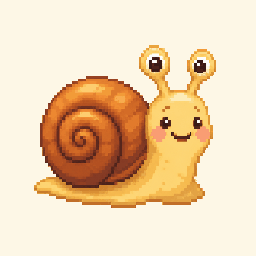
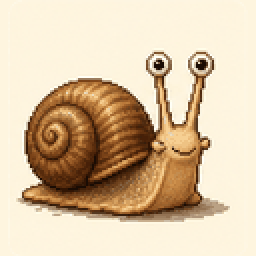
feat: update alt text for Romanian images and replace assets in Batch 40 corrective audit

diff --git a/docs/app-development-program/features/romanian-content-expansion/corrective-image-audit-batch-40.md b/docs/app-development-program/features/romanian-content-expansion/corrective-image-audit-batch-40.md
@@ -218,6 +218,63 @@ Local ignored review artifacts may include:
 - `assets/image-sources/ro/batch-40/brand-comparison-final.png`
 - `assets/image-sources/ro/batch-40/generated-96/*.png`
 
+## Next Corrective Scope: G-M Human Flags
+
+The next human-flagged list covers:
+
+| Word ID | Word | Current image path | Human issue | Current image audit | Decision | Regeneration direction |
+| --- | --- | --- | --- | --- | --- | --- |
+| `ro-g-gem` | `gem` | `/images/ro/g/ro-g-gem.webp` | Plain and bad; needs more detail and dimensionality. | Current jar reads as jam but is flat, sparse, and below the accepted food-object polish level. | Generate review candidate. | Detailed glass jar or small open jar of red berry jam, glossy jam surface, believable glass volume, warm full square background. |
+| `ro-g-garaj` | `garaj` | `/images/ro/g/ro-g-garaj.webp` | Needs to be more 3D, detailed, and specific; could be a boxy garage or near a house. | Current garage is simple and flat, with weak dimensional detail. | Generate review candidate. | Boxy small garage with clear segmented garage door, slight three-quarter view, a hint of house wall/driveway context if useful, full square background. |
+| `ro-g-gemeni` | `gemeni` | `/images/ro/g/ro-g-gemeni.webp` | Should be two identical boys. | Current image shows two children but not clearly identical twins. | Generate review candidate. | Two identical friendly boys side by side, same hair/clothes/proportions, child-safe expression, full square background. |
+| `ro-g-ger` | `ger` | `/images/ro/g/ro-g-ger.webp` | Too boxy/geometrical; needs more detail and 3D. | Current thermometer/snowflake symbol is geometric and too icon-like. | Generate review candidate. | Readable freezing-cold scene/object, such as frosty window/ice crystals with a small thermometer or icy branch, dimensional frost texture, cold full square background. |
+| `ro-g-ghereta` | `gheretă` | `/images/ro/g/ro-g-ghereta.webp` | Needs to be more specific, more detailed, more 3D, in style, and no shadow. | Current booth is readable but flat and too simple. | Generate review candidate. | Small kiosk/guard booth/ticket booth with window and door, simple 3D volume, no text, no cast/contact shadow, full square background. |
+| `ro-g-gheruta` | `gheruță` | `/images/ro/g/ro-g-gheruta.webp` | Same style/detail issue as `gheretă`; no shadow. | Current paw/claw is symbolic, flat, and on a cut/transparent-looking background. | Generate review candidate. | Small animal paw with visible little claws, rounded friendly shape, dimensional fur/pad detail, no scary talons, no shadow, full square background. |
+| `ro-i-insula` | `insulă` | `/images/ro/i/ro-i-insula.webp` | Needs more detail and 3D in the current standard. | Current island is too simple and geometric. | Generate review candidate. | Small sandy island with water around it and a palm/tree, gentle three-quarter/top-down volume, full square background. |
+| `ro-i-iaz` | `iaz` | `/images/ro/i/ro-i-iaz.webp` | Needs more detail and 3D. | Current pond is closer, but still too flat and sparse. | Generate review candidate. | Small contained pond with reeds, stones, lily pad, shallow-water feel, distinct from a large lake, full square background. |
+| `ro-l-lac` | `lac` | `/images/ro/l/ro-l-lac.webp` | Current image feels more like `iaz`; should be a bigger lake landscape. | Current lake is small and pond-like. | Generate review candidate. | Broader lake landscape with a larger water body, shoreline, trees or distant hills, still simple enough for thumbnail, full square background. |
+| `ro-m-melc` | `melc` | `/images/ro/m/ro-m-melc.webp` | Has two sets of eyes; snail eyes should be on eyestalks, not on the face. | Current snail is otherwise readable, but extra face eyes are biologically confusing. | Generate review candidate. | Friendly snail with exactly two eyes at the ends of upper eyestalks, no extra face eyes, rounded shell/body, full square background. |
+| `ro-m-musetel` | `mușețel` | `/images/ro/m/ro-m-musetel.webp` | Too boxy, geometrical, plain, and bad. | Current flower is stiff and icon-like. | Generate review candidate. | Small cluster of chamomile flowers with white petals and yellow centers, natural stems/leaves, soft dimensional pixel-art texture, full square background. |
+| `ro-m-martisor` | `mărțișor` | `/images/ro/m/ro-m-martisor.webp` | Too boxy/geometrical/plain; should be more Romanian-like. | Current heart charm has a red-white cord but does not clearly capture the Romanian traditional object. | Generate review candidate. | Romanian mărțișor with red-white twisted cord, tassels or bow, and a small spring/luck charm such as a flower, horseshoe, or clover; no text. Sources: Wikipedia overview of the Romanian/Moldovan spring tradition and red-white string (https://en.wikipedia.org/wiki/M%C4%83r%C8%9Bi%C8%99or), DEX definition of the mărțișor object/custom (https://dexonline.ro/definitie/m%C4%83r%C8%9Bi%C8%99or). |
+| `ro-m-mazare` | `mazăre` | `/images/ro/m/ro-m-mazare.webp` | Too boxy, geometrical, plain, and bad. | Current pea pod is flat and angular. | Generate review candidate. | Rounded green pea pod partly open with visible peas, organic curves, soft volume, full square background. |
+
+Contact-sheet plan: generate one unlabeled 13-cell candidate sheet in the exact table order above, with full square backgrounds inside every cell, then stop for human review before cropping, optimization, JSON edits, or production replacement.
+
+Contact-sheet outcome: generated one unlabeled 13-cell candidate sheet in the exact order above, stopped for human review, and the human accepted all cells.
+
+Implemented G-M corrective changes:
+
+| Word ID | Public path | Size | Dimensions | Result |
+| --- | --- | ---: | --- | --- |
+| `ro-g-gem` | `/images/ro/g/ro-g-gem.webp` | 11158 B | 256 x 256 | Accepted, AI contact-sheet replacement |
+| `ro-g-garaj` | `/images/ro/g/ro-g-garaj.webp` | 8830 B | 256 x 256 | Accepted, AI contact-sheet replacement |
+| `ro-g-gemeni` | `/images/ro/g/ro-g-gemeni.webp` | 10846 B | 256 x 256 | Accepted, AI contact-sheet replacement |
+| `ro-g-ger` | `/images/ro/g/ro-g-ger.webp` | 12038 B | 256 x 256 | Accepted, AI contact-sheet replacement |
+| `ro-g-ghereta` | `/images/ro/g/ro-g-ghereta.webp` | 10202 B | 256 x 256 | Accepted, AI contact-sheet replacement |
+| `ro-g-gheruta` | `/images/ro/g/ro-g-gheruta.webp` | 11544 B | 256 x 256 | Accepted, AI contact-sheet replacement |
+| `ro-i-insula` | `/images/ro/i/ro-i-insula.webp` | 10982 B | 256 x 256 | Accepted, AI contact-sheet replacement |
+| `ro-i-iaz` | `/images/ro/i/ro-i-iaz.webp` | 11242 B | 256 x 256 | Accepted, AI contact-sheet replacement |
+| `ro-l-lac` | `/images/ro/l/ro-l-lac.webp` | 9376 B | 256 x 256 | Accepted, AI contact-sheet replacement |
+| `ro-m-melc` | `/images/ro/m/ro-m-melc.webp` | 11812 B | 256 x 256 | Accepted, AI contact-sheet replacement |
+| `ro-m-musetel` | `/images/ro/m/ro-m-musetel.webp` | 12190 B | 256 x 256 | Accepted, AI contact-sheet replacement |
+| `ro-m-martisor` | `/images/ro/m/ro-m-martisor.webp` | 12056 B | 256 x 256 | Accepted, AI contact-sheet replacement |
+| `ro-m-mazare` | `/images/ro/m/ro-m-mazare.webp` | 11214 B | 256 x 256 | Accepted, AI contact-sheet replacement |
+
+Alt text updated where the new image meaning became more specific: `garaj`, `gemeni`, `ger`, `gheretă`, `iaz`, `lac`, `mușețel`, and `mărțișor`.
+
+G-M brand/style review:
+
+- Created a final comparison sheet mixing `cozonac`, `cățel`, `cadă`, `buchet`, `castravete`, `jachetă`, `umbrelă`, `scaun`, and all promoted G-M crops.
+- Confirmed the approved crops use true `256 x 256 px` canvases, refined `128 px` pixel-art processing, full square backgrounds, and no contact-sheet gutter/cut-background artifacts.
+- All promoted G-M files are below the `12 KiB` warning boundary after lossless WebP optimization.
+
+G-M verification:
+
+- `pnpm run validate:content` passed outside the sandbox after sandboxed `pnpm` returned `fetch failed`; the reported image-size warnings were pre-existing assets (`fular`, `glob`, `hartă`, `mamă`, `mână`, `păpușă`, `porc`, `pernă`, `șarpe`, `ursuleț`, `vacă`, and `vulpe`), not the promoted G-M corrective assets.
+- `pnpm run lint` passed outside the sandbox.
+- `pnpm exec tsc --noEmit --incremental false` passed outside the sandbox.
+- `git diff --check` passed.
+
 ## Non-Goals
 
 - No broad image-generation batch without a human-approved flagged list.

diff --git a/docs/status.md b/docs/status.md
@@ -1076,7 +1076,7 @@ Note: use the nvm Node PATH when running local pnpm commands in automation. Some
 
 Admin Words Inventory, Locale-Wide Content Refactor, Gameplay Inclusion Mode Selector, Wheel Setup UX Redesign, the mobile setup compression pass, Romanian Content Expansion Batch 40, and Wheel Setup Exclusion Filters Batch 4 are complete. The current Romanian image completion scope is finalized: production content has `367` approved words, `367` ready images, and `0` approved placeholders. Batch 40 corrected the first human-flagged A-C image list after the deterministic local-drawing replacement attempt was rejected. The accepted AI contact-sheet replacements for `acoperiș`, `alge`, `ascuțitoare`, `ață`, `brânză`, `barză`, `buzunar`, `ceapă`, `ciorap`, `cireșe`, `cap`, `colaj`, `caschetă`, and `chiciură` were cropped in fixed order, processed through a refined `128 px` pixel-art grid with `96` colors, nearest-upscaled to `256 x 256 px`, and optimized as lossless WebP files below the `12 KB` warning threshold. The reused old casual-cap `caschetă` bitmap remains the accepted `șapcă` asset. Future flagged images should be recorded in `docs/app-development-program/features/romanian-content-expansion/corrective-image-audit-batch-40.md`, compared against the reference set in `docs/image-pipeline.md`, and checked for quality, style, 3D-ness, pixel construction, shadows, shape, subject size, background color, and thumbnail readability. Use online object references when the real-world object or Romanian word sense is uncertain. For smooth AI outputs, the current post-processing default is a refined `128 px` grid, `96` to `128` colors, and nearest-neighbor upscale; avoid deterministic SVG-like local drawing replacements. Any future vocabulary, image, `Ă`/`Â` bucket, route/schema, speech-target metadata, admin editing, auth, database, billing, account, AI pronunciation, clinical-claim, or image-generation work needs a new explicit human-approved production scope before implementation.
 
-Remaining release verification steps: run `pnpm run build`, deploy or inspect the Vercel preview, verify deployed `/ro`, `/admin/words`, and representative `/ro/play/...` routes on mobile and desktop, and complete final human visual review of the deployed production image pack. Batch 40 verification passed for `pnpm run validate:content`, `pnpm run lint`, `pnpm exec tsc --noEmit --incremental false`, and `git diff --check`; sandboxed `pnpm` returned `fetch failed`, so the `pnpm` checks were rerun outside the sandbox. A Batch 40 follow-up normalized full square backgrounds for the accepted A-C crops that had cut-looking backgrounds; A-C is marked done for now, with `ro-a-ascutitoare` and `ro-b-bicicleta` still available for a later polish pass. The D-F corrective scope is complete for `desen`, `duș`, `echer`, `echipament`, `față`, `frunză`, `fasole`, `frizerie`, and `frizură`, all promoted as accepted `256 x 256 px` WebP assets, with D-F validation/lint/TypeScript/diff checks passing. Browser verification should target the local dev server on port `3000`; if sandboxed `localhost:3000` checks fail, agents should retry outside the sandbox before treating the app as unavailable.
+Remaining release verification steps: run `pnpm run build`, deploy or inspect the Vercel preview, verify deployed `/ro`, `/admin/words`, and representative `/ro/play/...` routes on mobile and desktop, and complete final human visual review of the deployed production image pack. Batch 40 verification passed for `pnpm run validate:content`, `pnpm run lint`, `pnpm exec tsc --noEmit --incremental false`, and `git diff --check`; sandboxed `pnpm` returned `fetch failed`, so the `pnpm` checks were rerun outside the sandbox. A Batch 40 follow-up normalized full square backgrounds for the accepted A-C crops that had cut-looking backgrounds; A-C is marked done for now, with `ro-a-ascutitoare` and `ro-b-bicicleta` still available for a later polish pass. The D-F corrective scope is complete for `desen`, `duș`, `echer`, `echipament`, `față`, `frunză`, `fasole`, `frizerie`, and `frizură`, all promoted as accepted `256 x 256 px` WebP assets, with D-F validation/lint/TypeScript/diff checks passing. The G-M corrective scope is complete for `gem`, `garaj`, `gemeni`, `ger`, `gheretă`, `gheruță`, `insulă`, `iaz`, `lac`, `melc`, `mușețel`, `mărțișor`, and `mazăre`; all were generated through the approved AI contact-sheet workflow, human-accepted, cropped into true square backgrounds, and promoted as optimized `256 x 256 px` WebP assets. Browser verification should target the local dev server on port `3000`; if sandboxed `localhost:3000` checks fail, agents should retry outside the sandbox before treating the app as unavailable.
 
 ## Decisions Made
 

diff --git a/docs/next-image-batch-prompt.md b/docs/next-image-batch-prompt.md
@@ -2,7 +2,7 @@
 
 There is no additional approved image-generation scope after Romanian Content Expansion Batch 40. Batch 39 finalized the current Romanian image completion scope, and Batch 40 completed the first human-flagged A-C corrective image regeneration pass. Do not generate images, add vocabulary, or create another image batch without a separate human-approved production decision.
 
-The approved image-related path for future work is corrective review through `docs/app-development-program/features/romanian-content-expansion/corrective-image-audit-batch-40.md` when the human supplies a list of poor, unclear, or off-style ready images. The first Batch 40 A-C flagged list is complete: the deterministic local-drawing replacement attempt was rejected and restored, a later AI contact sheet was human-approved, and the accepted A-C cells were promoted. Do not repeat the deterministic SVG-like/local drawing approach.
+The approved image-related path for future work is corrective review through `docs/app-development-program/features/romanian-content-expansion/corrective-image-audit-batch-40.md` when the human supplies a list of poor, unclear, or off-style ready images. Batch 40 corrective passes are complete through the human-approved G-M list: the deterministic local-drawing replacement attempt was rejected and restored, later AI contact sheets were human-approved, and the accepted cells were promoted. Do not repeat the deterministic SVG-like/local drawing approach.
 
 Current finalized Romanian production pack:
 
@@ -12,7 +12,7 @@ Current finalized Romanian production pack:
 - Rejected audit-trail records: `ghicitoare`, `miez`, and `stinghie`.
 - Unresolved spoken note: `Capea` / `Kapia`; no current production word ID matches it.
 
-Batch 39 confirmed the production JSON, public image assets, `/admin/words`, and representative gameplay routes all match the finalized pack counts. Batch 40 replaced `14` human-flagged A-C ready images and kept the reused old casual-cap `caschetă` bitmap for `șapcă`. The public non-placeholder image tree should still contain exactly `367` WebP files referenced by approved ready records, with no missing or unused production image assets.
+Batch 39 confirmed the production JSON, public image assets, `/admin/words`, and representative gameplay routes all match the finalized pack counts. Batch 40 replaced human-flagged A-C, D-F, and G-M ready images and kept the reused old casual-cap `caschetă` bitmap for `șapcă`. The public non-placeholder image tree should still contain exactly `367` WebP files referenced by approved ready records, with no missing or unused production image assets.
 
 ## Remaining Release Verification Steps
 
@@ -66,6 +66,7 @@ Critical context:
 - `ro-b-bicicleta` still needs a human-reviewed quality/style improvement.
 - The A-C corrective set is marked done for now, but can still be improved in a later polish pass.
 - The D-F corrective scope is complete: `desen`, `duș`, `echer`, `echipament`, `față`, `frunză`, `fasole`, `frizerie`, and `frizură` were generated as one `3 x 3` AI contact sheet, accepted by the human, cropped in fixed order, background-normalized, and promoted as `256 x 256 px` lossless WebP assets.
+- The G-M corrective scope is complete: `gem`, `garaj`, `gemeni`, `ger`, `gheretă`, `gheruță`, `insulă`, `iaz`, `lac`, `melc`, `mușețel`, `mărțișor`, and `mazăre` were generated as one `13`-cell AI contact sheet, accepted by the human, cropped in fixed order, background-normalized into true square canvases, and promoted as optimized `256 x 256 px` lossless WebP assets. `mărțișor` was checked against online Romanian/tradition references before prompting.
 - Future corrective work needs a new human-flagged list and must stop for human review after the generated contact sheet.
 
 Goal:

diff --git a/docs/app-development-program/features/romanian-content-expansion/status.md b/docs/app-development-program/features/romanian-content-expansion/status.md
@@ -2314,9 +2314,29 @@ Batch 39 QA:
 - `git diff --check` passed.
 - Sandboxed localhost checks failed for representative routes and assets; the required outside-sandbox retries returned `200 OK`.
 
+## Batch 40 Corrective Image Continuation
+
+Batch 40 continued with human-flagged corrective image work after the A-C and D-F passes.
+
+Implemented G-M corrective changes:
+
+- Generated one unlabeled 13-cell AI contact sheet for `gem`, `garaj`, `gemeni`, `ger`, `gheretă`, `gheruță`, `insulă`, `iaz`, `lac`, `melc`, `mușețel`, `mărțișor`, and `mazăre`.
+- Looked up `mărțișor` before prompting and recorded the Romanian red-white cord/trinket sources in the corrective audit document.
+- Stopped for human review; the human accepted all cells.
+- Cropped the accepted cells in fixed order, normalized them onto true square `256 x 256 px` canvases, processed them through the refined `128 px` / `96` color pixel-art workflow, and optimized them as lossless WebP files below the `12 KiB` warning boundary.
+- Updated only necessary alt text for `garaj`, `gemeni`, `ger`, `gheretă`, `iaz`, `lac`, `mușețel`, and `mărțișor`.
+- Updated `docs/image-pipeline.md` to explicitly reject partial/cut backgrounds inside future generated contact-sheet cells.
+
+G-M verification:
+
+- `pnpm run validate:content` passed outside the sandbox after sandboxed `pnpm` returned `fetch failed`; only pre-existing image-size warnings were reported, and none of the promoted G-M assets were in the warning list.
+- `pnpm run lint` passed outside the sandbox.
+- `pnpm exec tsc --noEmit --incremental false` passed outside the sandbox.
+- `git diff --check` passed.
+
 ## Next Batch
 
-There is no next approved Romanian image-generation batch. The current Romanian image completion scope is finalized.
+There is no next approved Romanian image-generation batch beyond human-supplied corrective review. The current Romanian image completion scope remains at `367` approved words, `367` ready images, and `0` approved placeholders.
 
 Remaining release verification steps:
 

diff --git a/docs/image-pipeline.md b/docs/image-pipeline.md
@@ -62,6 +62,7 @@ For corrective regeneration, use an even stricter review gate:
 
 - generate one small contact sheet, ideally around `12` to `15` candidate images;
 - include generous gutters and no labels inside the generated image sheet;
+- explicitly prompt that each cell contains a complete square image background or transparency, not a smaller cropped rectangle, panel, partial fill, or cut-out pasted onto the sheet;
 - stop after the sheet is generated and ask the human to review before cropping cells, optimizing WebP assets, editing JSON, or replacing production files;
 - if the sheet is rejected, do not salvage individual crops unless the human explicitly identifies acceptable cells;
 - record the human decision in the batch audit document before any production asset promotion.
@@ -145,7 +146,7 @@ Background:
 - transparent background is preferred for final production assets;
 - if transparency is not practical, use a very pale warm off-white or soft sky-blue background;
 - avoid scenery unless the word itself requires context.
-- final assets must have a full square background or transparency across the entire `256 x 256 px` canvas; do not leave contact-sheet gutters, white side bars, corner blocks, rectangular panels, or cut-background artifacts around a cropped subject;
+- final assets must have a full square background or transparency across the entire `256 x 256 px` canvas; do not leave contact-sheet gutters, white side bars, corner blocks, black transparent-composite areas, rectangular panels, or cut-background artifacts around a cropped subject;
 - after cropping from a generated contact sheet, normalize edge-connected background pixels to the intended pale background before WebP optimization, then inspect the `256 x 256 px` result at full size and thumbnail size;
 - if a subject needs a contextual background such as water or frost sky, that background must fill the full square consistently instead of appearing as a smaller rectangular patch inside a white square.
 
